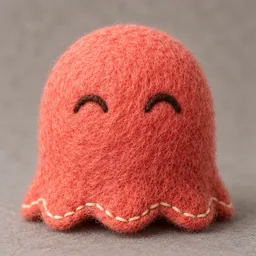
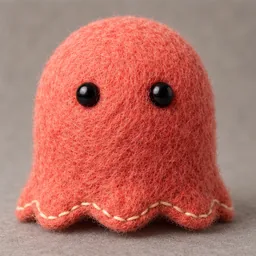
fix(world): Mongle account photo uses bead eyes like the 3D room
The profile capsule, account sheet and tutor tabs now show Mongle with
the black bead eyes from the default cell, matching Mongle in the room.

Changed region(s): [[0.0312, 0.0312, 0.9062, 0.9375], [0.625, 0.9062, 0.6875, 0.9375]]

diff --git a/tools/world-mascot-photos/install.py b/tools/world-mascot-photos/install.py
@@ -42,7 +42,8 @@ for place, size in PLACES.items():
                     tutor.setdefault(place, {}).setdefault(tid, {})[emo] = v
 
 profile = {}
-for key, cell in [('mongle', 'mongle'), ('kkamong', 'kkamong'), ('marin', 'marin'), ('default', 'mongle-기본')]:
+# 몽글 계정 사진은 3D 방의 몽글과 같은 구슬 눈 칸(10-14 유호님 「계정 사진 몽글은 구슬 눈으로」)
+for key, cell in [('mongle', 'mongle-기본'), ('kkamong', 'kkamong'), ('marin', 'marin'), ('default', 'mongle-기본')]:
     v = save(os.path.join(ROOT, 'cut/profile', cell + '.png'), os.path.join(DEST, 'profile', key + '.webp'), 256)
     if v:
         profile[key] = v
